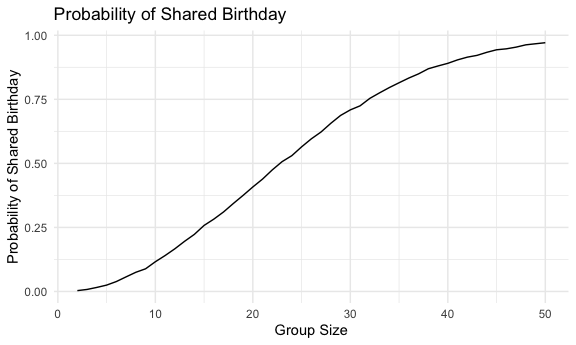
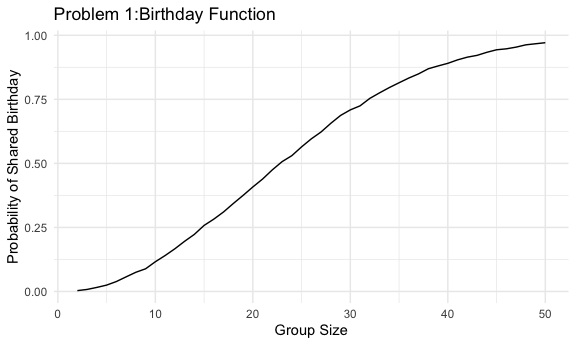
added comment for plot

Changed region(s): [[0.1562, 0.0, 0.5, 0.058]]

diff --git a/p8105_hw5_yl5505.md b/p8105_hw5_yl5505.md
@@ -35,10 +35,12 @@ results = map_df(2:50, function(n) {
 ggplot(results, aes(x = group_size, y = prob)) +
   geom_line() +
   labs(
-    title = "Probability of Shared Birthday",
+    title = "Problem 1:Birthday Function",
     x = "Group Size",
     y = "Probability of Shared Birthday"
   )
 ```
 
-<img src="p8105_hw5_yl5505_files/figure-gfm/unnamed-chunk-4-1.png" width="90%" />
+<img src="p8105_hw5_yl5505_files/figure-gfm/unnamed-chunk-4-1.png" width="90%" /> -
+The probability of shared birthday increases as the group size
+increases, and the growth in probability is nonlinear.
